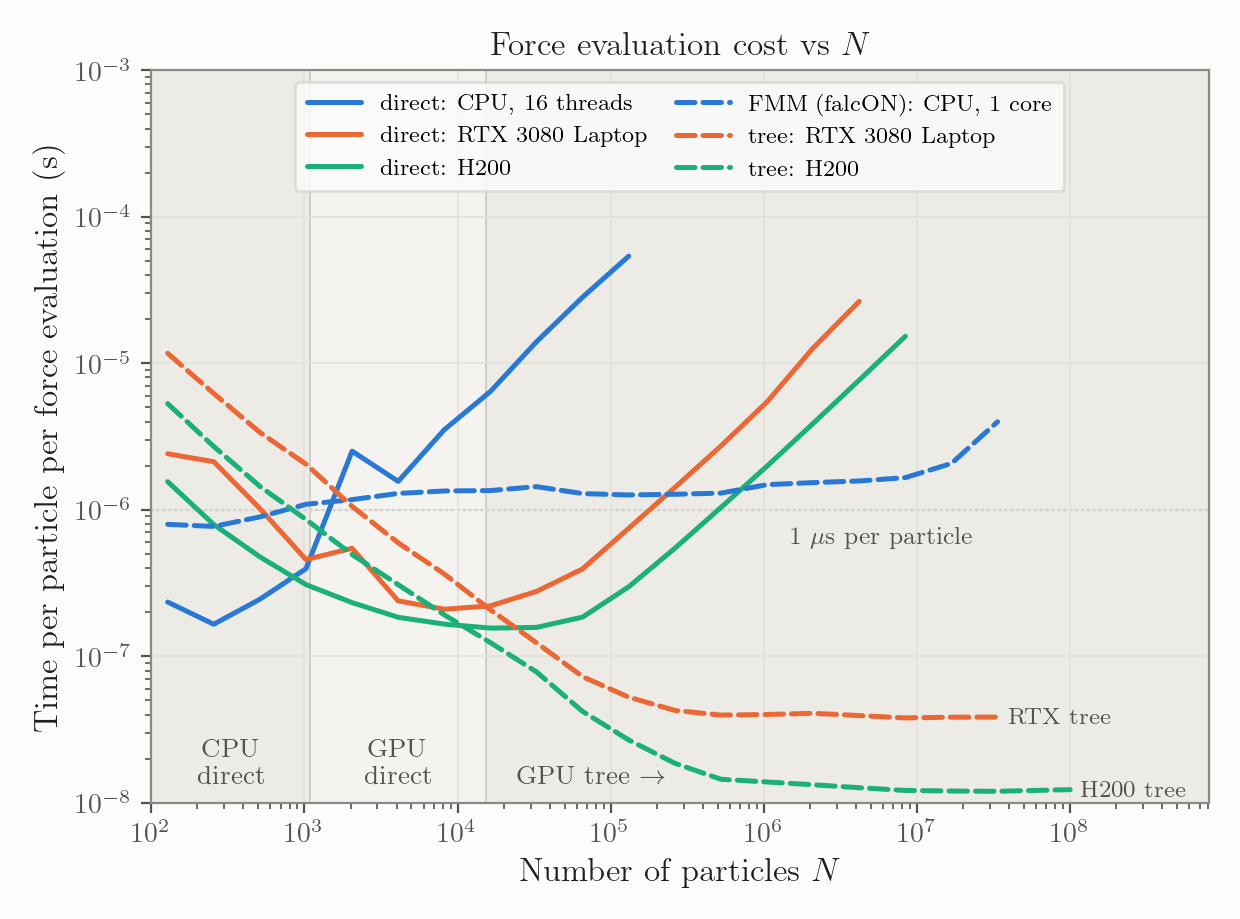
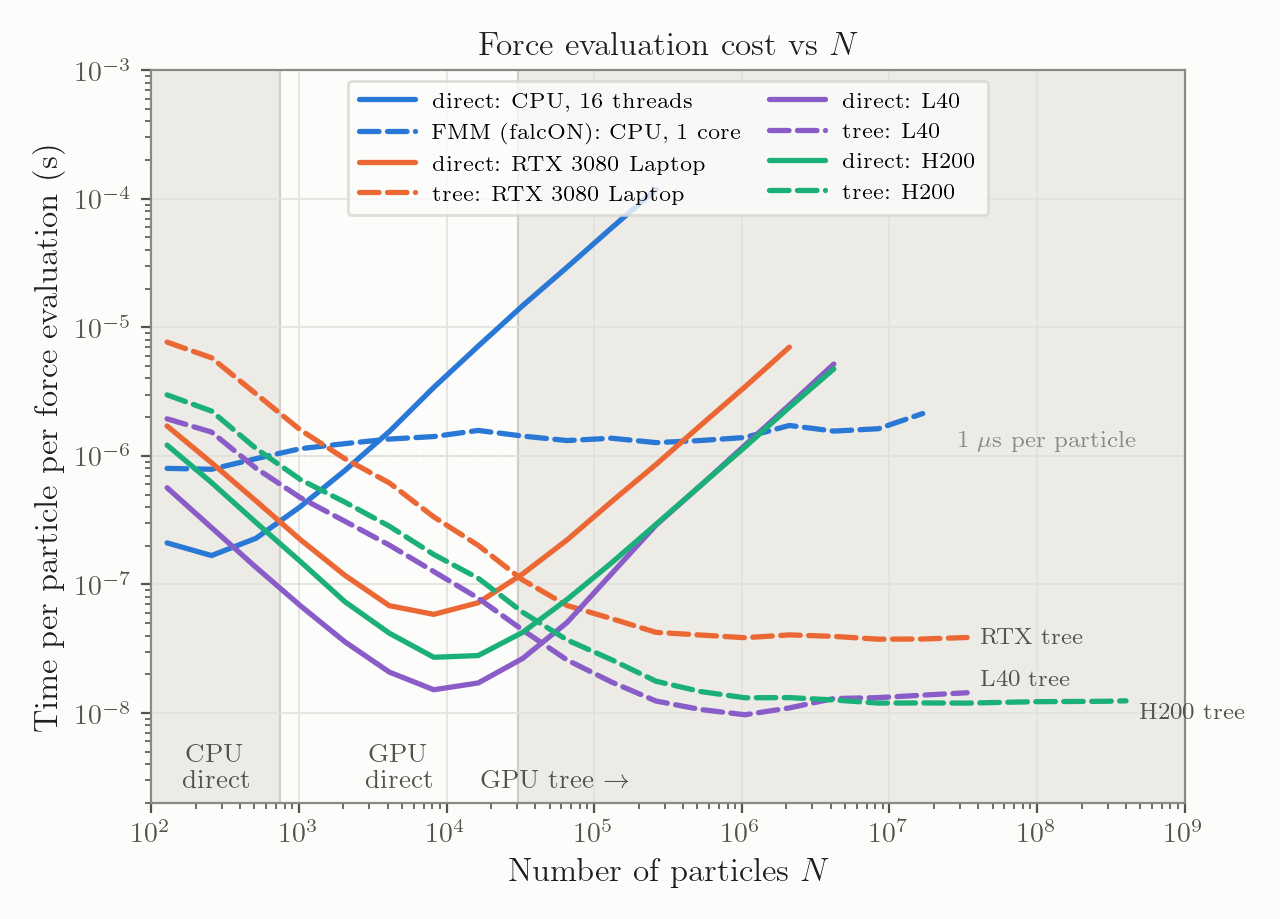
docs: performance section and figure with L40/H200, new crossovers and max N

diff --git a/README.md b/README.md
@@ -782,38 +782,61 @@ is `False`.
 
 ## Performance
 
-Time per force evaluation (all particles), Plummer sphere, eps = 0.01 a.
-Laptop: RTX 3080 Laptop GPU + i9-11980HK (16 threads); datacenter: NVIDIA H200.
+Time per force evaluation (all particles), Plummer sphere, eps = 0.01 a,
+theta = 0.6, minimum over repeated calls.  Laptop: RTX 3080 Laptop GPU (16 GB)
++ i9-11980HK (16 threads); workstation: NVIDIA L40 (48 GB, shared, 26 GB
+free); datacenter: NVIDIA H200 (141 GB).  GPU direct uses `float32_kahan`.
 
-| N | CPU direct (16 thr) | FMM falcON (1 core) | GPU direct RTX / H200 | GPU tree RTX / H200 |
+| N | CPU direct (16 thr) | FMM falcON (1 core) | GPU direct RTX / L40 / H200 | GPU tree RTX / L40 / H200 |
 |---|---|---|---|---|
-| 8,192 | 28.8 ms | 11 ms | 1.72 ms / 1.36 ms | 2.99 ms / 1.57 ms |
-| 131,072 | 7.06 s | 165 ms | 98 ms / 39.1 ms | 6.9 ms / 3.52 ms |
-| 1,048,576 | - | 1.56 s | 5.72 s / 2.08 s | 42 ms / 14.6 ms |
-| 8,388,608 | - | 13.9 s | - / 128 s | 319 ms / 102 ms |
-| 33,554,432 | - | 134 s | - | 1.29 s / 402 ms |
-| 100,000,000 | - | - | - | - / 1.23 s |
+| 8,192 | 27.9 ms | 11.6 ms | 0.48 / 0.12 / 0.22 ms | 2.75 / 1.03 / 1.40 ms |
+| 131,072 | 7.78 s | 180 ms | 57.7 / 15.9 / 19.3 ms | 7.11 / 2.28 / 3.40 ms |
+| 1,048,576 | - | 1.46 s | 3.60 / 1.27 / 1.23 s | 40.4 / 10.2 / 13.8 ms |
+| 8,388,608 | - | 13.6 s | - | 315 / 110 / 100 ms |
+| 33,554,432 | - | - | - | 1.30 / 0.48 / 0.40 s |
+| 100,000,000 | - | - | - | - / - / 1.22 s |
+| 400,000,000 | - | - | - | - / - / 4.97 s |
 
-The GPU tree scales linearly from ~5e5 particles on: 4e-8 s per particle on
-the RTX 3080 Laptop (up to 3.4e7, limited by its 16 GB) and 1.2e-8 s per
-particle on the H200 up to 1e8 particles.  GPU direct kernels (N = 10,240,
-RTX 3080): float32 + float4 1.5 ms, float32_kahan 1.7 ms, float64 ~20 ms.
+The GPU tree costs a constant time per particle from ~5e5 particles on:
+3.8e-8 s on the RTX 3080 Laptop, 1.0-1.4e-8 s on the L40 and 1.2e-8 s on the
+H200, which holds that rate up to 4.8e8 particles (6.0 s per call).  Below
+~4e6 the L40 tree is faster than the H200's (higher clocks and FP32 rate);
+above 1e7 the H200 is ahead.  At small N the GPU direct sum splits its source
+loop across blocks to fill the GPU; at N = 10,240 on the RTX 3080: float32
+0.41 ms, float32_kahan 0.56 ms, float64 13.6 ms (consumer GPUs run float64
+at 1/64 rate).
+
+**Largest N per GPU (GPU tree).**  `TreeGPU` and `run_nbody_gpu_tree` refuse
+an N that would not fit in 80% of the free GPU memory, with a `ValueError`
+instead of an out-of-memory crash.  On a dedicated GPU raise the fraction with
+`nbody_streams.tree_gpu.set_memory_fraction(0.95)`.  A one-off call needs
+~215 B per particle on top of its float64 positions; `run_nbody_gpu_tree`
+~375 B per particle in all, and costs the same per step as one call (H200:
+1.24 s per step at 1e8, 2.47 s at 2e8).
+
+| GPU | `tree_gravity_gpu` (0.8 / 0.95) | measured |
+|---|---|---|
+| RTX 3080 Laptop, 16 GB | ~42M / ~50M | 4e7: 1.53 s per call, 10.6 GB |
+| H200, 141 GB | ~421M / ~494M | 4.8e8 at 0.95: 6.0 s per call, 108.6 GB |
+
+The index limit is 2^29 = 537M particles.  Benchmarks were run with
+`benchmarks/` (`timing_sweep.py`, `max_n.py`, `plot_timings.py`).
 
 ### Which solver should I use?
 
 <p align="center">
-  <img src="plots/acceleration_timings.png" width="700" alt="Time per particle per force evaluation against N for CPU direct, falcON FMM, and GPU direct and tree on an RTX 3080 Laptop and an H200"/>
+  <img src="plots/acceleration_timings.png" width="700" alt="Time per particle per force evaluation against N for CPU direct, falcON FMM, and GPU direct and tree on an RTX 3080 Laptop, an L40 and an H200"/>
 </p>
 
 | Particle count | Fastest | Notes |
 |---|---|---|
-| N < ~1e3 | **CPU direct** (Numba) | No kernel-launch overhead. |
-| ~1e3 - ~1.5e4 | **GPU direct** | Exact pairwise forces; `float32_kahan` matches float64 to ~1e-6 (see Float32 precision). |
-| N > ~1.5e4 | **GPU tree** | Crossover ~1.5e4 (RTX) / ~1e4 (H200).  theta = 0.6: median force error ~1e-4, 99th percentile ~5e-4; 140x faster than GPU direct at 1e6 on an H200. |
+| N < ~750 | **CPU direct** (Numba) | No kernel-launch overhead (~0.07-0.2 ms per GPU call). |
+| ~750 - ~3e4 | **GPU direct** | Exact pairwise forces; `float32_kahan` matches float64 to ~1e-6 (see Float32 precision).  Crossover to the tree ~3e4 (RTX) / ~4e4 (L40, H200). |
+| N > ~3e4 | **GPU tree** | theta = 0.6: median force error ~1e-4, 99th percentile ~5e-4; ~90x faster than GPU direct at 1e6 on an H200. |
 | No GPU, large N | **FMM** (falcON) | ~1.3-1.7e-6 s per particle on one core up to ~1e7. |
 
-The shaded bands in the figure mark the fastest choice on the consumer GPU,
-from the measured crossovers.  Benchmark scripts are not yet in the repository.
+The shaded bands in the figure mark the fastest choice on the laptop, from
+the measured crossovers.
 
 ---
 

diff --git a/docs/quickstart.md b/docs/quickstart.md
@@ -161,9 +161,9 @@ print(result['star'].shape)   # (1000, 6)
 
 | Particle count | Recommended | Notes |
 |---|---|---|
-| N < ~1e3 | `cpu`, `direct` | Lowest latency; no GPU kernel-launch overhead |
-| ~1e3 – ~1.5e4 | `gpu`, `direct` | Exact pairwise forces |
-| N > ~1.5e4 | `gpu`, `tree` | Barnes-Hut, theta = 0.6: median force error ~1e-4; scales to ~1e8 particles on an 80 GB+ GPU; requires `make` in `tree_gpu/` |
+| N < ~750 | `cpu`, `direct` | Lowest latency; no GPU kernel-launch overhead |
+| ~750 – ~3e4 | `gpu`, `direct` | Exact pairwise forces (crossover to the tree ~3e4 on an RTX 3080, ~4e4 on an L40 / H200) |
+| N > ~3e4 | `gpu`, `tree` | Barnes-Hut, theta = 0.6: median force error ~1e-4; ~215 B per particle per call (~375 in `run_nbody_gpu_tree`): ~4.2e8 particles on a 141 GB H200 (~4.9e8 with `set_memory_fraction(0.95)`); requires `make` in `tree_gpu/` |
 | No GPU, large N | `cpu`, `tree` (falcON) | O(N) FMM, ~1.5e-6 s per particle on one core |
 
 Crossovers measured on an RTX 3080 Laptop; see the README Performance section for timings.

diff --git a/CHANGELOG.md b/CHANGELOG.md
@@ -9,6 +9,15 @@ and this project adheres to [Semantic Versioning](https://semver.org/spec/v2.0.0
 
 ### Added
 
+- **`nbody_streams.tree_gpu.set_memory_fraction(f)` / `get_memory_fraction()`.**
+  The GPU tree memory guard plans for 80% of the free GPU memory by default;
+  raise it on a dedicated GPU (H200: ~4.2e8 -> ~4.9e8 particles per call at
+  0.95; measured 4.8e8 at 6.0 s per call, 108.6 GB).
+- **`benchmarks/`**: `timing_sweep.py` (CPU direct, FMM, GPU direct and tree
+  against N), `max_n.py` (largest N and peak memory per GPU), `plot_timings.py`
+  (the README figure, now with the L40), `large_n_check.py` (tree forces
+  above 2^28 particles against a float64 direct sum) and a Slurm job script.
+
 - **Mixed precision Multipole: `MultipolePotentialGPU(precision='float32')`.**
   The l > 0 harmonic sums run in float32; r, log r, the l = 0 term with its
   log-scaling, the extrapolation and the final combination stay float64.
